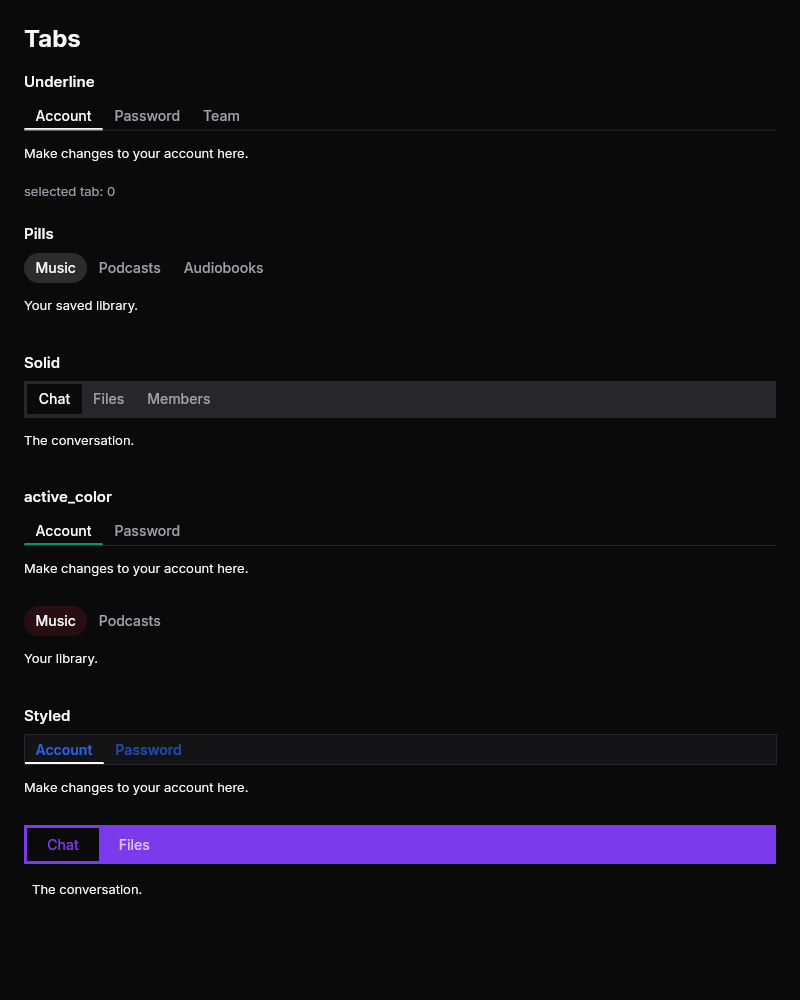
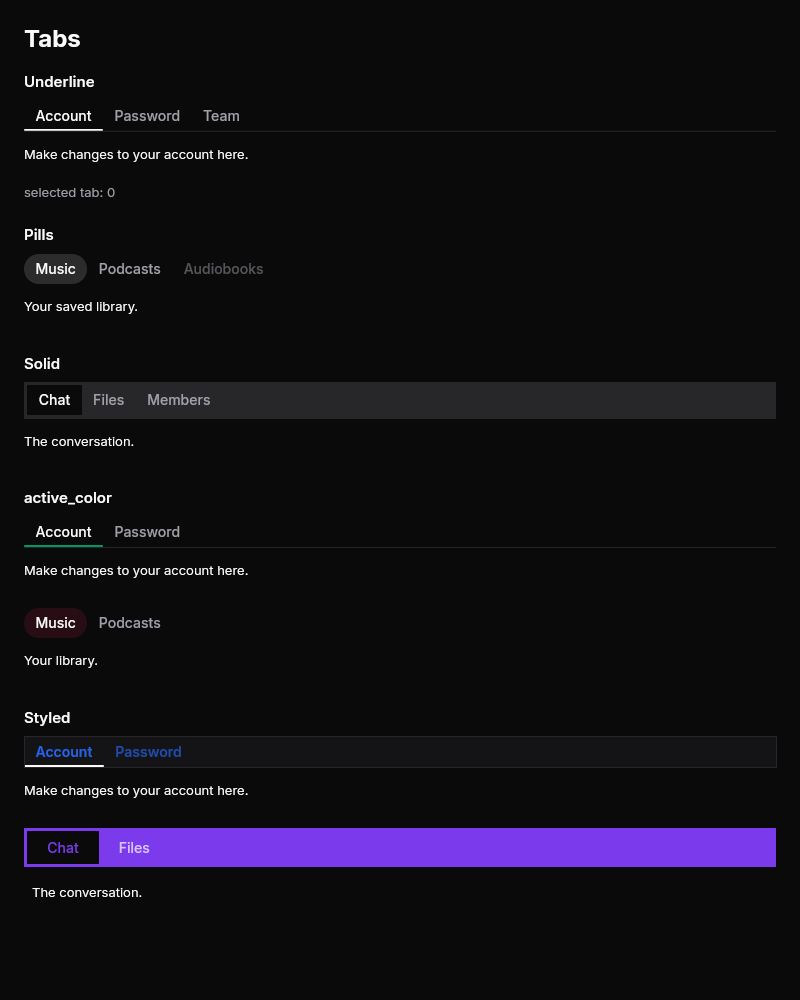
Tabs: one tab design (2 px bottom accent underline), tab_strip + tab_indicator for apps
- Underline variant: indicator is a 2 px rounded accent bar on the selected tab's bottom edge
  spanning the tab (was 3 px), drawn only on the selected tab; hover/pressed tint the tab,
  disabled labels dimmed, selected text full contrast; keyboard focus ring unchanged.
- New tab_strip(selected).item(label, count, on_select): strip without content, count badge.
- New tab_indicator(color) / TAB_INDICATOR_H / TAB_INDICATOR_LABEL so custom tab rows (editor tabs)
  draw the identical indicator.
- Tests: suite/tabs.rs (indicator at the tab's bottom edge, 2 px, full tab width, follows
  selection, disabled ignores clicks, hover keeps size); goldens/tabs.txt re-blessed (intended:
  2 px indicator, only selected tab has one); render-check refs widget/tabs + gallery/tabs*
  re-blessed after looking at candidate vs reference (lavapipe).
- Checklist: no IO/spawn in render path; two bool signals per tab (hover, pressed) freed with the
  component; no timers, no idle wakeups; perf_budget/memory_soak not run (widget-only change).

🤖 Generated with Claude Code

diff --git a/crates/pebbles-widgets/src/components/navigation/tabs.rs b/crates/pebbles-widgets/src/components/navigation/tabs.rs
@@ -10,13 +10,13 @@ use pebbles_render::{Border, BorderRadius, BoxDecoration, Cursor};
 
 use crate::theme::{mix, theme};
 use crate::widgets::{
-    Container, GestureDetector, Opacity, Padding, Positioned, column, gap_h, row, stack, text,
+    Container, GestureDetector, Opacity, Padding, Positioned, column, gap_h, gap_w, row, stack, text,
 };
 use pebbles_core::context::Callback;
 use pebbles_core::focus::create_focus;
 use pebbles_core::keyboard::{KeyInput, Motion};
 use pebbles_core::widget::{AnyWidget, IntoWidget};
-use pebbles_core::{animate_to, animated, children, component_props, create_signal};
+use pebbles_core::{animate_to, animated, component_props, create_signal};
 
 /// The visual style of a [`Tabs`] strip.
 #[derive(Clone, Copy, PartialEq, Eq, Debug, Default)]
@@ -35,6 +35,8 @@ pub enum TabsVariant {
 #[derive(Clone)]
 struct TabDef {
     label: String,
+    /// A count badge after the label (`None` or 0 = none).
+    badge: Option<usize>,
     content: AnyWidget,
     on_select: Option<Callback>,
     disabled: bool,
@@ -48,6 +50,8 @@ pub struct Tabs {
     variant: TabsVariant,
     autofocus: bool,
     active_color: Option<pebbles_foundation::Color>,
+    /// Render only the strip (no content slot): see [`tab_strip`].
+    strip_only: bool,
     // `None` = the design-language default (resolved at render so it re-skins live).
     content_padding: Option<EdgeInsets>,
     tab_padding: Option<EdgeInsets>,
@@ -59,7 +63,49 @@ pub fn tabs(selected: usize) -> Tabs {
     Tabs { selected, ..Default::default() }
 }
 
+/// A bare tab strip (no content area): the one tab design for every tab row — labels
+/// with an optional count badge and a 2 px accent underline under the selected tab.
+/// Add tabs with [`Tabs::item`].
+pub fn tab_strip(selected: usize) -> Tabs {
+    Tabs { selected, strip_only: true, ..Default::default() }
+}
+
+/// Height of the selected tab's accent underline.
+pub const TAB_INDICATOR_H: f64 = 2.0;
+/// Semantics label of the selected tab's indicator (tests and GUI checks find it by it).
+pub const TAB_INDICATOR_LABEL: &str = "Tab indicator";
+
+/// The selected-tab indicator: a 2 px rounded accent bar. Place it with
+/// `Positioned::new(..).left(0).right(0).bottom(0)` over a tab so it spans the tab's
+/// bottom edge; every tab design (strips, editor tabs) draws it through this.
+pub fn tab_indicator(color: pebbles_foundation::Color) -> AnyWidget {
+    crate::widgets::semantics(
+        pebbles_render::SemanticsRole::Group,
+        TAB_INDICATOR_LABEL,
+        Container::new()
+            .decoration(BoxDecoration::new().color(color).radius(BorderRadius::all(TAB_INDICATOR_H)))
+            .height(TAB_INDICATOR_H),
+    )
+    .into_widget()
+}
+
 impl Tabs {
+    /// Add a tab to a [`tab_strip`]: label, optional count badge, selection callback.
+    pub fn item(
+        mut self,
+        label: impl Into<String>,
+        badge: Option<usize>,
+        on_select: impl pebbles_core::IntoCallback,
+    ) -> Self {
+        self.tabs.push(TabDef {
+            label: label.into(),
+            badge,
+            content: gap_h(0.0).into_widget(),
+            on_select: Some(on_select.into_callback()),
+            disabled: false,
+        });
+        self
+    }
     /// Add a tab with a label, content and a selection callback.
     pub fn tab(
         mut self,
@@ -69,6 +115,7 @@ impl Tabs {
     ) -> Self {
         self.tabs.push(TabDef {
             label: label.into(),
+            badge: None,
             content: content.into_widget(),
             on_select: Some(on_select.into_callback()),
             disabled: false,
@@ -199,6 +246,7 @@ fn render_tabs(p: &Tabs) -> AnyWidget {
                 render_tab_button,
                 TabButtonProps {
                     label: tab.label.clone(),
+                    badge: tab.badge,
                     selected: i == p.selected,
                     disabled: tab.disabled,
                     variant: p.variant,
@@ -228,7 +276,9 @@ fn render_tabs(p: &Tabs) -> AnyWidget {
             if node.is_focused() {
                 deco = deco.border(Border::new(th.colors.ring, 2.0));
             }
-            (deco, None)
+            // 1 px above the strip's bottom hairline (it paints over the tab cells), so the
+            // whole 2 px indicator shows.
+            (deco, Some(EdgeInsets::only(0.0, 0.0, 0.0, 1.0)))
         }
         TabsVariant::Pills => {
             let base = crate::style::style().background(th.colors.background);
@@ -256,6 +306,10 @@ fn render_tabs(p: &Tabs) -> AnyWidget {
     // C7: the strip is a TabList (its buttons are Tabs — see render_tab_button).
     let strip = crate::widgets::semantics(pebbles_render::SemanticsRole::TabList, "", strip).into_widget();
 
+    if p.strip_only {
+        return strip;
+    }
+
     // --- content (cross-faded on switch) ------------------------------------
     let content = selected_content
         .map(|w| {
@@ -275,6 +329,7 @@ fn render_tabs(p: &Tabs) -> AnyWidget {
 /// Props for one tab button in the strip.
 struct TabButtonProps {
     label: String,
+    badge: Option<usize>,
     selected: bool,
     disabled: bool,
     variant: TabsVariant,
@@ -296,29 +351,64 @@ struct TabButtonProps {
 fn render_tab_button(p: &TabButtonProps) -> AnyWidget {
     let c = theme().colors;
     let hovered = create_signal(false);
+    let pressed = create_signal(false);
     let hv = if p.disabled { 0.0 } else { animated(if hovered.get() { 1.0 } else { 0.0 }, 0.12) };
-    let label_color = if p.selected { p.color } else { mix(p.inactive_color, p.color, 0.3 * hv as f32) };
+    let label_color = if p.disabled {
+        p.inactive_color.with_alpha(0.5)
+    } else if p.selected {
+        p.color
+    } else {
+        mix(p.inactive_color, p.color, 0.3 * hv as f32)
+    };
 
     let cell: AnyWidget = match p.variant {
         TabsVariant::Underline => {
-            // The 2px accent line sits at the very bottom of the cell — on top of
-            // the strip's hairline border (the shadcn overlap).
-            // The Google-style indicator: a 3px rounded bar at the very bottom,
-            // spanning the tab's FULL width (the Stack + Positioned fill gives it
-            // the label's width — a bare Container would collapse to 0 wide under
-            // the row's unbounded cross constraints).
-            let underline_color = if p.selected { p.active_color } else { palette::TRANSPARENT };
-            let underline = Container::new()
-                .decoration(BoxDecoration::new().color(underline_color).radius(BorderRadius::all(999.0)))
-                .height(3.0);
-            stack(children![
-                Padding::new(
-                    p.tab_padding,
-                    text(p.label.clone()).size(p.size).weight(p.weight).color(label_color),
-                ),
-                Positioned::new(underline).left(0.0).right(0.0).bottom(0.0),
-            ])
-            .into_widget()
+            // The indicator is a 2 px accent bar at the tab's bottom edge spanning its
+            // full width (Stack + Positioned: a bare Container would collapse to 0 wide
+            // under the row's unbounded cross constraints), over the strip's hairline.
+            // Hover / pressed tint the whole tab; selected text keeps full contrast.
+            let tint = if p.disabled || !(hovered.get() || pressed.get()) {
+                palette::TRANSPARENT
+            } else {
+                c.foreground.with_alpha(if pressed.get() { 0.12 } else { 0.06 })
+            };
+            let mut inner: Vec<AnyWidget> =
+                vec![text(p.label.clone()).size(p.size).weight(p.weight).color(label_color).into_widget()];
+            if let Some(n) = p.badge.filter(|n| *n > 0) {
+                inner.push(gap_w(5.0).into_widget());
+                inner.push(
+                    Container::new()
+                        .padding(EdgeInsets::symmetric(5.0, 0.0))
+                        .decoration(
+                            BoxDecoration::new()
+                                .color(c.muted.with_alpha(0.6))
+                                .radius(BorderRadius::all(8.0)),
+                        )
+                        .child(text(n.to_string()).size((p.size - 2.0).max(9.0)).color(c.muted_foreground))
+                        .into_widget(),
+                );
+            }
+            let mut layers: Vec<AnyWidget> = vec![
+                Container::new()
+                    .decoration(BoxDecoration::new().color(tint).radius(BorderRadius::all(4.0)))
+                    .child(Padding::new(
+                        p.tab_padding,
+                        row(inner)
+                            .main_axis_size(MainAxisSize::Min)
+                            .cross_axis_alignment(CrossAxisAlignment::Center),
+                    ))
+                    .into_widget(),
+            ];
+            if p.selected {
+                layers.push(
+                    Positioned::new(tab_indicator(p.active_color))
+                        .left(0.0)
+                        .right(0.0)
+                        .bottom(0.0)
+                        .into_widget(),
+                );
+            }
+            stack(layers).into_widget()
         }
         TabsVariant::Pills => {
             let bg = if p.selected { mix(c.background, p.active_color, 0.14) } else { palette::TRANSPARENT };
@@ -356,7 +446,12 @@ fn render_tab_button(p: &TabButtonProps) -> AnyWidget {
     let mut g = GestureDetector::new(cell)
         .cursor(crate::design::theme::action_cursor())
         .on_hover_enter(move || hovered.set(true))
-        .on_hover_exit(move || hovered.set(false));
+        .on_hover_exit(move || {
+            hovered.set(false);
+            pressed.set(false);
+        })
+        .on_pointer_down(move || pressed.set(true))
+        .on_pointer_up(move || pressed.set(false));
     // NOTE: clicking does NOT focus the strip — the focus ring is keyboard-only
     // (Tab reaches the strip, then Left/Right navigate). No ring flash on click.
     if let Some(cb) = p.on_tap.clone() {

diff --git a/crates/pebbles-widgets/tests/suite/tabs.rs b/crates/pebbles-widgets/tests/suite/tabs.rs
@@ -165,3 +165,64 @@ fn unselected_label_reads_on_a_coloured_strip() {
     assert!(r > 0.95 && g > 0.95 && b > 0.95, "white on violet, got {:?}", files.style.color);
     assert!((a - 0.7).abs() < 0.01, "70 % like Flutter's unselected label, got {a}");
 }
+
+// --- the one tab design: a 2 px accent underline on the selected tab's bottom edge ---
+
+fn strip_view() -> impl IntoWidget {
+    let sel = create_signal(1usize);
+    pebbles_widgets::tab_strip(sel.get())
+        .item("Sources", Some(3), move || sel.set(0))
+        .item("Fields", None, move || sel.set(1))
+        .item("Filters", None, move || sel.set(2))
+        .tab_disabled(2)
+}
+
+#[test]
+fn strip_indicator_is_a_two_px_underline_under_the_whole_selected_tab() {
+    let mut h = pebbles_testing::Harness::new().window(500.0, 120.0);
+    h.mount(strip_view);
+    h.draw();
+    let tree = h.semantics_tree();
+    let tab =
+        |l: &str| tree.iter().find(|n| n.props.label == l).unwrap_or_else(|| panic!("no tab {l}")).bounds;
+    let ind: Vec<_> = tree.iter().filter(|n| n.props.label == pebbles_widgets::TAB_INDICATOR_LABEL).collect();
+    assert_eq!(ind.len(), 1, "exactly one indicator: on the selected tab");
+    let (i, t) = (ind[0].bounds, tab("Fields"));
+    assert_eq!(i.y1, t.y1, "on the tab's BOTTOM edge");
+    assert_eq!(i.y1 - i.y0, pebbles_widgets::TAB_INDICATOR_H, "2 px tall");
+    assert_eq!((i.x0, i.x1), (t.x0, t.x1), "spanning the tab's full width, not a left bar");
+    assert!(i.x1 - i.x0 > 4.0 * (i.y1 - i.y0), "wide, never a left-edge bar");
+
+    // Tapping another tab moves the indicator; the disabled tab can't take it.
+    let s = tab("Sources");
+    h.click(Offset::new((s.x0 + s.x1) / 2.0, (s.y0 + s.y1) / 2.0));
+    h.frames(2);
+    let tree = h.semantics_tree();
+    let ind = tree.iter().find(|n| n.props.label == pebbles_widgets::TAB_INDICATOR_LABEL).unwrap().bounds;
+    let s = tree.iter().find(|n| n.props.label == "Sources").unwrap().bounds;
+    assert_eq!((ind.x0, ind.x1, ind.y1), (s.x0, s.x1, s.y1), "indicator followed the selection");
+    let d = tree.iter().find(|n| n.props.label == "Filters").unwrap();
+    assert!(d.props.disabled, "disabled tab is announced disabled");
+    let f = d.bounds;
+    h.click(Offset::new((f.x0 + f.x1) / 2.0, (f.y0 + f.y1) / 2.0));
+    h.frames(2);
+    let ind = h
+        .semantics_tree()
+        .into_iter()
+        .find(|n| n.props.label == pebbles_widgets::TAB_INDICATOR_LABEL)
+        .unwrap()
+        .bounds;
+    assert_eq!(ind.x0, s.x0, "a disabled tab ignores clicks");
+}
+
+#[test]
+fn underline_tabs_show_hover_feedback_and_keep_their_size() {
+    let mut h = pebbles_testing::Harness::new().window(500.0, 120.0);
+    h.mount(strip_view);
+    h.draw();
+    let before = h.semantics_tree().into_iter().find(|n| n.props.label == "Fields").unwrap().bounds;
+    h.hover(Offset::new((before.x0 + before.x1) / 2.0, (before.y0 + before.y1) / 2.0));
+    h.frames(6);
+    let after = h.semantics_tree().into_iter().find(|n| n.props.label == "Fields").unwrap().bounds;
+    assert_eq!(before, after, "hover must not move or resize the tab");
+}

diff --git a/crates/pebbles-widgets/src/components/navigation/mod.rs b/crates/pebbles-widgets/src/components/navigation/mod.rs
@@ -17,4 +17,4 @@ pub use routing::{
     NavStack, RouteParams, RouteView, link, outlet, redirect, route_view, use_match, use_route_focus,
 };
 pub use stepper::{Step, Stepper, step, stepper};
-pub use tabs::{Tabs, TabsVariant, tabs};
+pub use tabs::{TAB_INDICATOR_H, TAB_INDICATOR_LABEL, Tabs, TabsVariant, tab_indicator, tab_strip, tabs};

diff --git a/WIDGETS.md b/WIDGETS.md
@@ -167,7 +167,7 @@ remote-URL images) and their per-platform status live in
 | `pop_scope` (PopScope) + `dispatch_back` | ✅ | intercept a system Back request; `.blocking()`/`.on_pop()`; the shell calls `dispatch_back()` (consumed when a `pop_scope` is blocking) |
 | `set_system_ui_overlay_style` (SystemChrome) | ✅ | request status/nav-bar styling (`SystemUiOverlayStyle`); the shell applies it where supported, desktop no-op |
 | `set_view_insets` / `set_safe_area_padding` / `set_device_pixel_ratio` / `set_text_scale` | ✅ | the shell reports metrics into the reactive `MediaQuery` (drives `SafeArea` / `resize_to_avoid_bottom_inset`) |
-| `Tabs` | ✅ | design variants, disabled tabs, keyboard, focus ring |
+| `Tabs` | ✅ | design variants, disabled tabs, keyboard, focus ring, `tab_strip` (strip only, count badges), `tab_indicator` |
 | `Breadcrumb` | ✅ | `.max_visible` middle-collapse |
 | `Pagination` | ✅ | Numbers/Simple/Arrows designs; full control — first/last jump (double-chevrons, `.edges(true)` default), prev/next arrows, numbered pills with ellipses; every control is a bordered button, disables at the bounds; unified `on_page` |
 | `Menubar` / `menubar_menu` | ✅ | hover-switch between open menus, submenus |

diff --git a/CHANGELOG.md b/CHANGELOG.md
@@ -6,6 +6,13 @@ All notable changes to Pebbles are documented here. The format follows
 
 ## [Unreleased]
 
+### Changed — one tab design (underline strips)
+- `Tabs` underline variant: the selected tab carries a 2 px accent underline on its bottom
+  edge spanning the tab (was 3 px), hover / pressed tint the tab, disabled labels are dimmed.
+- New `tab_strip(selected).item(label, count, on_select)` (a strip without content, with an
+  optional count badge) and `tab_indicator(color)` / `TAB_INDICATOR_H` so apps draw every
+  tab row (including custom editor tabs) with the same indicator.
+
 ### Fixed — secondary windows behave like the main window (multi-window audit)
 - Input parity: secondary windows now get every mouse button (right-click context menus,
   middle click, raw `on_button_down/up` + captured moves), scrollbar drags and double /
